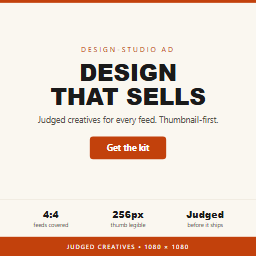
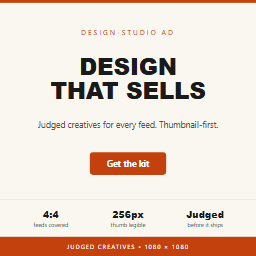
design-studio: round 18 lands 011 ad-square vertical rhythm (canvas reads finished) [skip ci]
Proof: node tools/check.mjs RESULT PASS 6 samples; node tools/audit.mjs samples/ad-square/brief.json AUDIT PASS.

Changed region(s): [[0.125, 0.1875, 0.875, 0.5], [0.3438, 0.5312, 0.6562, 0.6875], [0.3125, 0.0938, 0.6875, 0.1562]]

diff --git a/samples/ad-square/page.html b/samples/ad-square/page.html
@@ -22,8 +22,8 @@
   .main {
     flex: 1;
     display: flex; flex-direction: column;
-    align-items: center; justify-content: center;
-    padding: 48px 86px 40px;
+    align-items: center; justify-content: space-evenly;
+    padding: 56px 86px;
     border-block-end: 2px solid var(--line);
   }
   .kicker { font-size: 30px; letter-spacing: 8px; color: var(--accent); font-family: var(--font-body); margin-block-end: 26px; }
